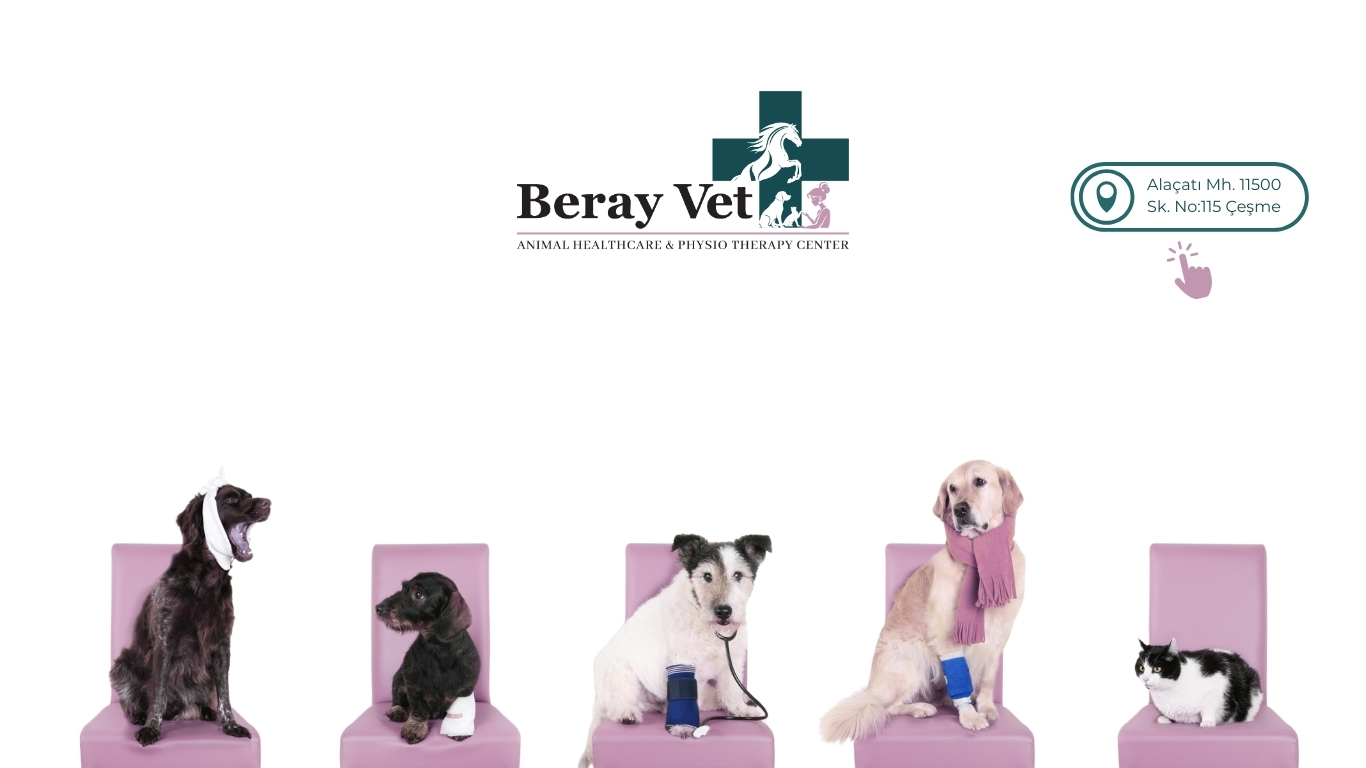
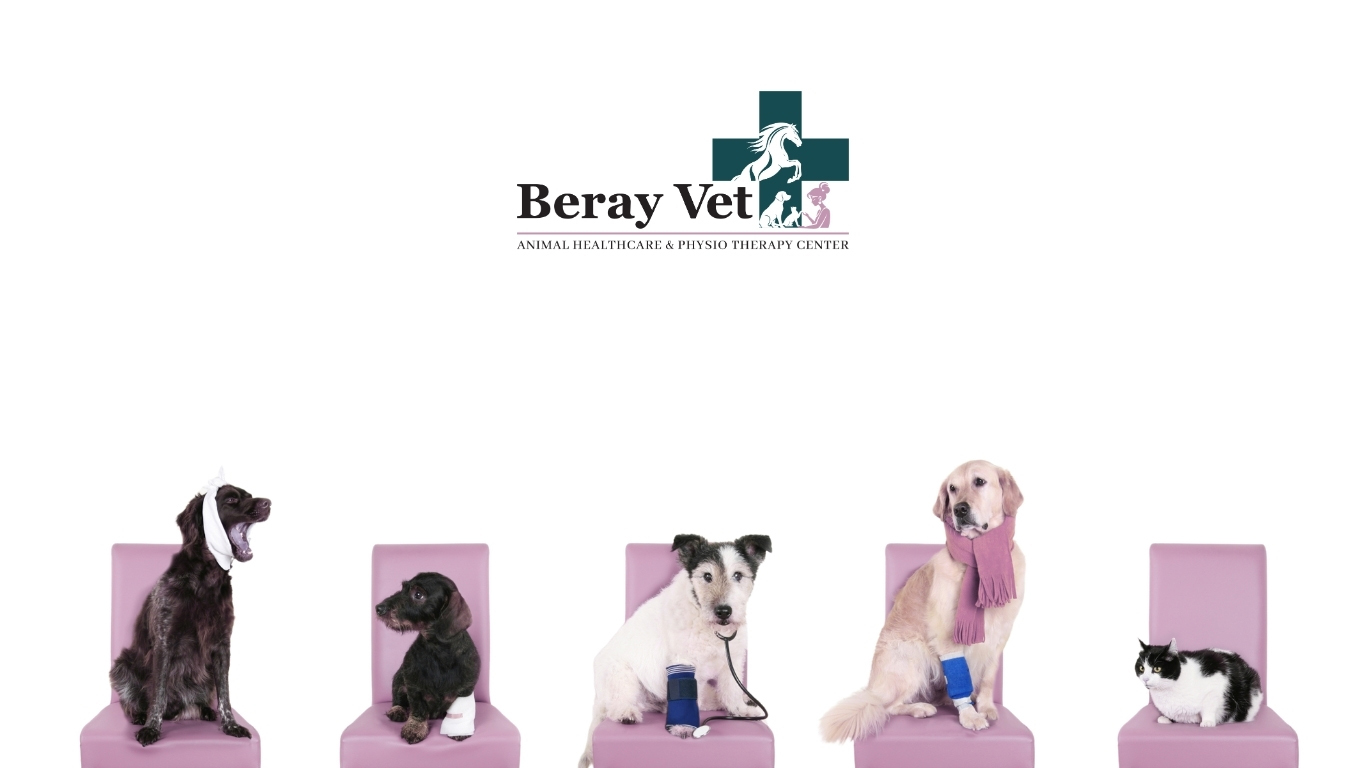
Removed Form added address and phone number on bottom

Changed region(s): [[0.7687, 0.1875, 0.9839, 0.4062]]

diff --git a/index.html b/index.html
@@ -13,81 +13,24 @@
 
         body {
             font-family: Arial, sans-serif;
-            height: 100vh;
-            background-image: url('BV.jpg');
-            background-size: contain;
-            background-position: center;
-            background-repeat: no-repeat;
-            display: flex;
-            justify-content: center;
-            align-items: center;
-            position: relative;
+            margin: 0;
+            padding: 0;
+            background-color: #ffffff;
         }
 
-        .form-container {
-            background: transparent;
-            padding: 30px 40px;
-            border-radius: 15px;
-            width: 90%;
-            max-width: 900px;
+        .container {
+            max-width: 100%;
+            margin: 0 auto;
         }
 
-        .form-container h2 {
-            text-align: center;
-            margin-bottom: 30px;
-            color: #fff;
-            font-size: 32px;
-            text-shadow: 2px 2px 4px rgba(0, 0, 0, 0.7);
-        }
-
-        form {
-            display: flex;
-            gap: 15px;
-            align-items: center;
-            flex-wrap: wrap;
-        }
-
-        .form-group {
-            flex: 1;
-            min-width: 200px;
-        }
-
-        .form-group input {
+        .image-section {
             width: 100%;
-            padding: 14px 18px;
-            border: 2px solid #164b51;
-            border-radius: 8px;
-            font-size: 16px;
-            transition: all 0.3s;
-            background: rgba(255, 255, 255, 0.9);
         }
 
-        .form-group input::placeholder {
-            color: #999;
-        }
-
-        .form-group input:focus {
-            outline: none;
-            border-color: #164b51;
-            background: rgba(255, 255, 255, 1);
-        }
-
-        .submit-btn {
-            padding: 14px 40px;
-            background-color: transparent;
-            color: #164b51;
-            border: 2px solid #164b51;
-            border-radius: 8px;
-            font-size: 18px;
-            font-weight: bold;
-            cursor: pointer;
-            transition: all 0.3s;
-            flex-shrink: 0;
-        }
-
-        .submit-btn:hover {
-            background-color: rgba(22, 75, 81, 0.2);
-            border-color: #164b51;
+        .image-section img {
+            width: 100%;
+            height: auto;
+            display: block;
         }
 
         .whatsapp-icon {
@@ -118,22 +61,65 @@
             fill: white;
         }
 
+        .contact-info {
+            display: flex;
+            justify-content: center;
+            gap: 20px;
+            padding: 40px 20px;
+            background-color: #ffffff;
+        }
+
+        .info-pill {
+            display: flex;
+            align-items: center;
+            gap: 12px;
+            padding: 12px 25px;
+            background-color: rgba(255, 255, 255, 0.95);
+            border: 3px solid #164b51;
+            border-radius: 50px;
+            box-shadow: 0 4px 12px rgba(0, 0, 0, 0.2);
+            text-decoration: none;
+            transition: all 0.3s;
+            cursor: pointer;
+        }
+
+        .info-pill:hover {
+            transform: translateY(-2px);
+            box-shadow: 0 6px 16px rgba(0, 0, 0, 0.3);
+        }
+
+        .info-pill svg {
+            width: 30px;
+            height: 30px;
+            fill: #164b51;
+            flex-shrink: 0;
+        }
+
+        .info-text {
+            color: #164b51;
+            font-size: 14px;
+            font-weight: 500;
+            line-height: 1.3;
+        }
+
         @media (max-width: 768px) {
-            .form-container {
-                padding: 20px;
-            }
-
-            form {
+            .contact-info {
                 flex-direction: column;
-                gap: 20px;
+                gap: 10px;
+                padding: 30px 20px;
             }
 
-            .form-group {
-                width: 100%;
+            .info-pill {
+                padding: 10px 20px;
             }
 
-            .submit-btn {
-                width: 100%;
+            .info-pill svg {
+                width: 25px;
+                height: 25px;
+            }
+
+            .info-text {
+                font-size: 12px;
             }
 
             .whatsapp-icon {
@@ -151,16 +137,25 @@
     </style>
 </head>
 <body>
-    <div class="form-container">
-        <form id="contactForm">
-            <div class="form-group">
-                <input type="text" id="address" name="address" placeholder="Adres" required>
-            </div>
-            <div class="form-group">
-                <input type="tel" id="phone" name="phone" placeholder="Telefon Numarası" required>
-            </div>
-            <button type="submit" class="submit-btn">Gönder</button>
-        </form>
+    <div class="container">
+        <div class="image-section">
+            <img src="BV.jpg" alt="Construction">
+        </div>
+
+        <div class="contact-info">
+            <a href="https://maps.app.goo.gl/kfUu85mrqxSnfcxK9" target="_blank" class="info-pill">
+                <svg xmlns="http://www.w3.org/2000/svg" viewBox="0 0 384 512">
+                    <path d="M215.7 499.2C267 435 384 279.4 384 192C384 86 298 0 192 0S0 86 0 192c0 87.4 117 243 168.3 307.2c12.3 15.3 35.1 15.3 47.4 0zM192 128a64 64 0 1 1 0 128 64 64 0 1 1 0-128z"/>
+                </svg>
+                <div class="info-text">Alaçatı Mh. 11500<br>Sk. No:115 Çeşme</div>
+            </a>
+            <a href="tel:+905491301313" class="info-pill">
+                <svg xmlns="http://www.w3.org/2000/svg" viewBox="0 0 512 512">
+                    <path d="M164.9 24.6c-7.7-18.6-28-28.5-47.4-23.2l-88 24C12.1 30.2 0 46 0 64C0 311.4 200.6 512 448 512c18 0 33.8-12.1 38.6-29.5l24-88c5.3-19.4-4.6-39.7-23.2-47.4l-96-40c-16.3-6.8-35.2-2.1-46.3 11.6L304.7 368C234.3 334.7 177.3 277.7 144 207.3L193.3 167c13.7-11.2 18.4-30 11.6-46.3l-40-96z"/>
+                </svg>
+                <div class="info-text">0549 130 13 13</div>
+            </a>
+        </div>
     </div>
 
     <a href="https://wa.me/905491301313" target="_blank" class="whatsapp-icon" title="Chat on WhatsApp">
@@ -169,47 +164,5 @@
         </svg>
     </a>
 
-    <script>
-        const GOOGLE_SCRIPT_URL = 'https://script.google.com/macros/s/AKfycbzFSjWRImtqwE84OGgNaie9xFPrMxRamFFoo1M6r8tkNV70BhCBf0s-Mc_NSsZogYlsPQ/exec';
-
-        document.getElementById('contactForm').addEventListener('submit', function(e) {
-            e.preventDefault();
-
-            const address = document.getElementById('address').value;
-            const phone = document.getElementById('phone').value;
-            const submitBtn = document.querySelector('.submit-btn');
-
-            // Disable button and show loading state
-            submitBtn.disabled = true;
-            submitBtn.textContent = 'Gönderiliyor...';
-
-            // Send data to Google Sheets
-            fetch(GOOGLE_SCRIPT_URL, {
-                method: 'POST',
-                mode: 'no-cors',
-                headers: {
-                    'Content-Type': 'application/json',
-                },
-                body: JSON.stringify({
-                    address: address,
-                    phone: phone
-                })
-            })
-            .then(() => {
-                // Success
-                alert('Teşekkürler! Bilgileriniz başarıyla gönderildi.');
-                this.reset();
-                submitBtn.disabled = false;
-                submitBtn.textContent = 'Gönder';
-            })
-            .catch((error) => {
-                // Error
-                alert('Bir hata oluştu. Lütfen tekrar deneyin.');
-                console.error('Error:', error);
-                submitBtn.disabled = false;
-                submitBtn.textContent = 'Gönder';
-            });
-        });
-    </script>
 </body>
 </html>
